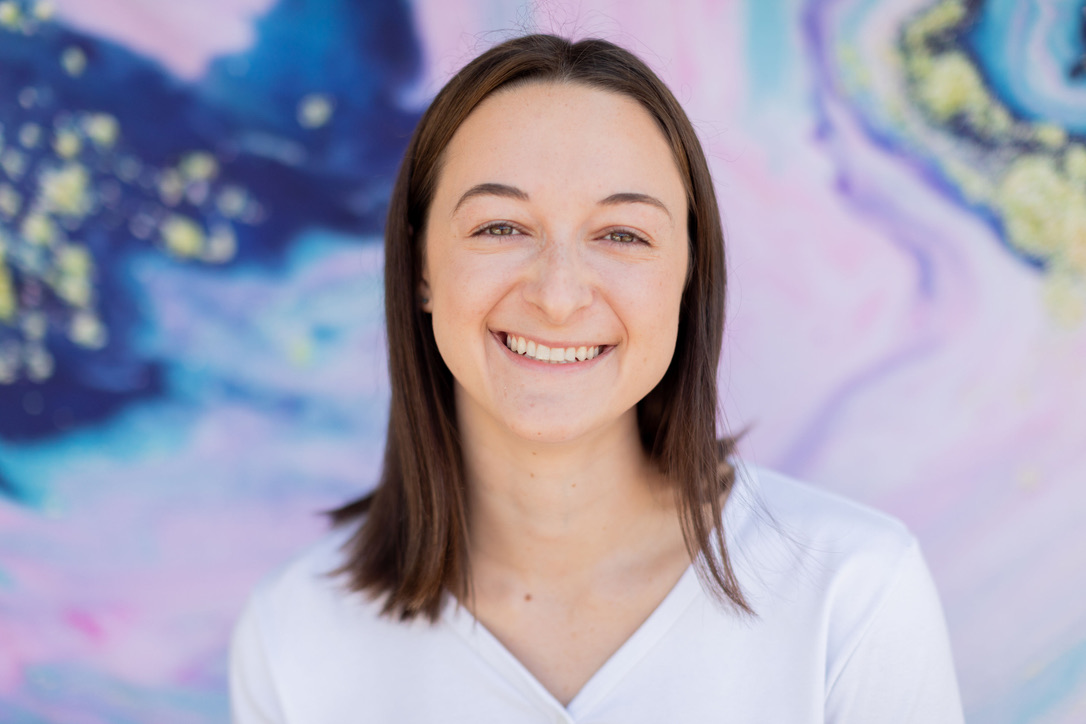
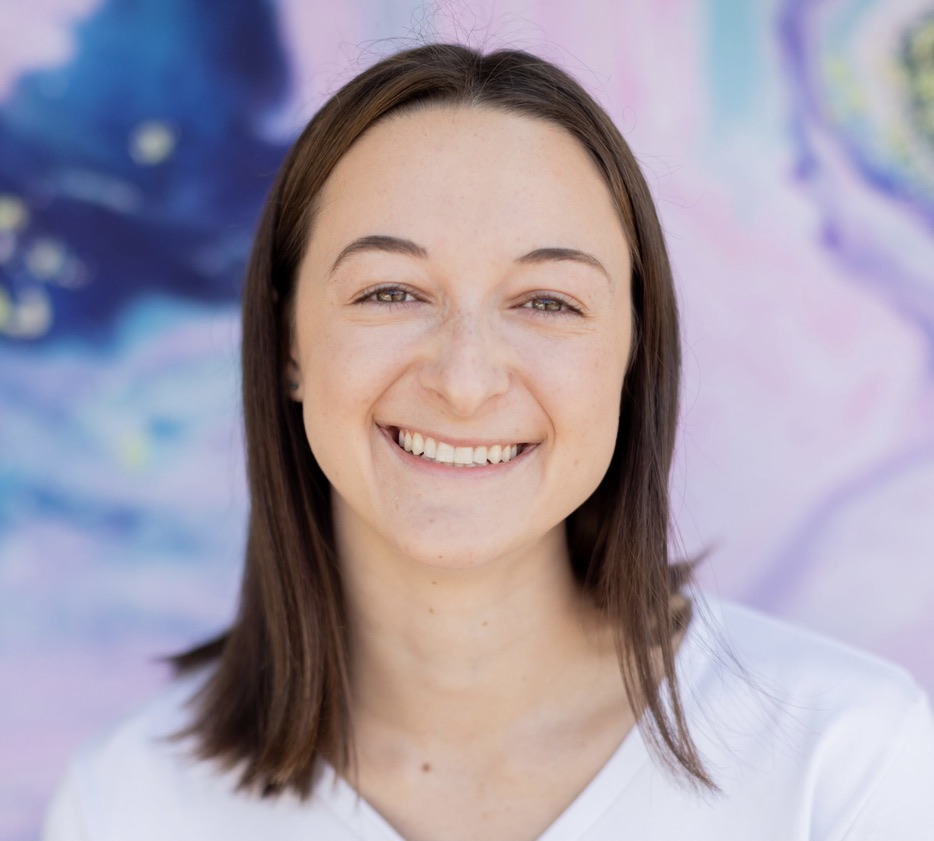
styling updated

diff --git a/src/style.css b/src/style.css
@@ -1,6 +1,5 @@
 body {
-    padding: 5px;
-    margin: 2px;
+    font-family:'Trebuchet MS', 'Lucida Sans Unicode', 'Lucida Grande', 'Lucida Sans', Arial, sans-serif
 }
 
 @media only screen and (max-width: 768px){
@@ -8,6 +7,13 @@ body {
         padding: 1px;
         margin: 1px;
   }
+}
+
+.nav {
+    background-color: #D0DAEE;
+    margin-top: 0px;
+    padding-top: 0px; 
+    width: 100%; 
 }
 
 .myName {
@@ -25,6 +31,14 @@ body {
 .resume,
 .portfolio {
     margin-bottom: 60px; 
+}
+
+.about,
+.contact,
+.resume,
+.portfolio {
+    margin-right: 150px;
+    margin-left: 150px;
 }
 
 .footer {
@@ -52,4 +66,14 @@ body {
   
   .icon-style:hover {
     padding:5px;
+  }
+
+
+  .headshot {
+    width: 30%;
+    border-radius: 50%;
+  }
+
+  hr {
+    width: 100%;
   }

diff --git a/src/components/pages/About.js b/src/components/pages/About.js
@@ -5,8 +5,9 @@ import "../../style.css";
 export default function About() {
   return (
     <div class="about">
-      <h1>About Me</h1>
-      <img src={image} alt="headshot"></img>
+      <h1>Maya Lorimer</h1>
+      <hr></hr>
+      <img src={image} alt="headshot" class="headshot"></img>
       <p>
       Full stack web developer educated at UCLA Extension. Passionate about problem solving and 
       creating efficient and effective solutions. A motivated worker who is also flexible based 

diff --git a/src/components/pages/Portfolio.js b/src/components/pages/Portfolio.js
@@ -8,7 +8,7 @@ export default function Portfolio() {
   return (
     <div class="portfolio">
       <h1>Portfolio</h1>
-
+      <hr></hr>
       <Row xs={1} md={2} className="g-4">
       {portfolio.map((project, index) => (
         <ProjectCard key={project.id} image={project.image} name={project.name} github={project.github} deploy={project.deploy}/>

diff --git a/src/components/pages/Resume.js b/src/components/pages/Resume.js
@@ -5,6 +5,7 @@ export default function Resume() {
   return (
     <div class="resume">
       <h1>Resume</h1>
+      <hr></hr>
       <p>
         Download my <a href="https://drive.google.com/file/d/17N1_kg_InoAd2l3_A-Ev4u9fDFwI4Bq4/view?usp=sharing" >Resume</a>
       </p>

diff --git a/src/components/pages/Contact.js b/src/components/pages/Contact.js
@@ -47,6 +47,7 @@ export default function Contact() {
   return (
     <div class='contact'>
       <h1>Contact Me</h1>
+      <hr></hr>
       <Form>
       <Form.Group className="mb-3" controlId="formBasicEmail">
         <Form.Label>Name: </Form.Label>

diff --git a/src/components/PortfolioContainer.js b/src/components/PortfolioContainer.js
@@ -5,6 +5,7 @@ import Resume from './pages/Resume';
 import Contact from './pages/Contact';
 import Portfolio from './pages/Portfolio';
 
+
 export default function PortfolioContainer() {
   const [currentPage, setCurrentPage] = useState('About');
 
